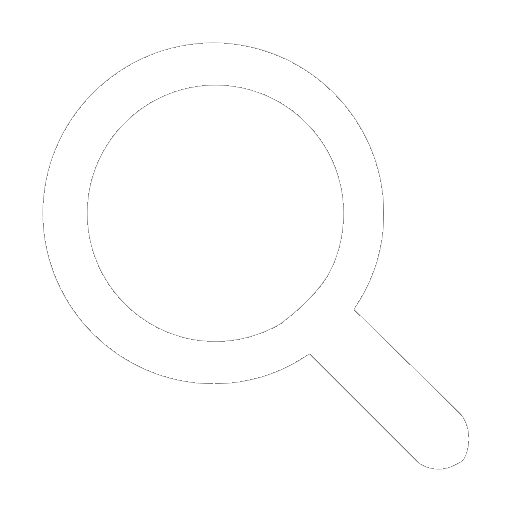
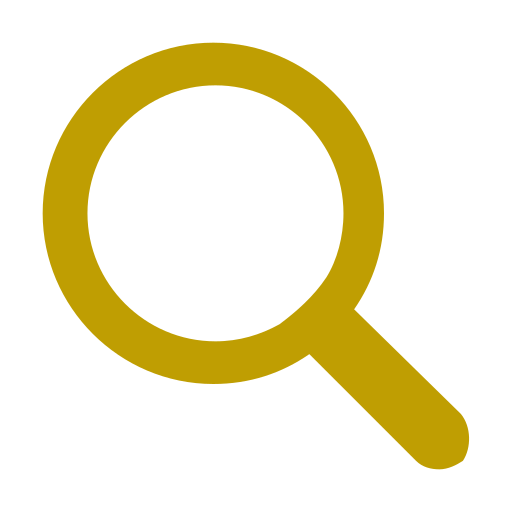
refactor: melhorias no projeto

Changed region(s): [[0.0625, 0.0625, 0.9375, 0.9375]]

diff --git a/src/pages/Details/index.tsx b/src/pages/Details/index.tsx
@@ -8,7 +8,7 @@ import { ContainerLoad, Loader } from "../../components/Loader.ts";
 
 function Details() {
   const { id } = useParams();
-  const [movie, setMovie] = useState<Movie | any>({});
+  const [movie, setMovie] = useState({} as Movie);
   const [load, setLoad] = useState(false);
 
   useEffect(() => {
@@ -21,18 +21,26 @@ function Details() {
       },
     })
       .then((response) => response.json())
-      .then(({ title, overview, poster_path, release_date, vote_average }) => {
-        const movie = {
-          id,
+      .then(
+        ({
           title,
           overview,
-          releaseDate: release_date,
-          image: `${image_path}${poster_path}`,
+          poster_path,
+          release_date,
           vote_average,
-        };
-        setMovie(movie);
-        setTimeout(() => setLoad(false), 400);
-      })
+        }: Movie) => {
+          const movie = {
+            id,
+            title,
+            overview,
+            release_date,
+            poster_path: `${image_path}${poster_path}`,
+            vote_average,
+          };
+          setMovie(movie);
+          setTimeout(() => setLoad(false), 400);
+        }
+      )
       .catch((err) => console.error(err));
   }, [id]);
 
@@ -45,14 +53,16 @@ function Details() {
       )}
       {!load && (
         <div className="movie">
-          <img src={movie.image} alt={movie.title} />
+          <img src={movie.poster_path} alt={movie.title} />
           <div className="details">
             <h1>{movie.title}</h1>
             <span>Visão geral: {movie.overview}</span>
             <span>Nota: {movie.vote_average?.toFixed(1)}</span>
             <span className="release-date">
               Data de lançamento:
-              {` ${new Date(movie.releaseDate).toLocaleString().split(",")[0]}`}
+              {` ${
+                new Date(movie.release_date).toLocaleString().split(",")[0]
+              }`}
             </span>
             <Link to="/">
               <button>Voltar</button>

diff --git a/src/components/Header.tsx b/src/components/Header.tsx
@@ -11,11 +11,7 @@ export const Header = () => {
     <div>
       <ContainerHeader>
         <Logo>
-          <img
-            src="../../public/netflix_logo.png"
-            alt="logo"
-            className="logo"
-          />
+          <img src="../../public/logo.png" alt="logo" className="logo" />
         </Logo>
         <MenuList>
           <Menu>Filmes</Menu>
@@ -23,7 +19,12 @@ export const Header = () => {
           <Menu>Gênero</Menu>
         </MenuList>
         <Search>
-          <img src="../../public/lupa.png" alt="search" className="search" />
+          <img
+            src="../../public/lupa.png"
+            alt="search"
+            className="search"
+            title="Pesquisar"
+          />
         </Search>
       </ContainerHeader>
     </div>

diff --git a/src/components/ContainerHeader.ts b/src/components/ContainerHeader.ts
@@ -3,7 +3,7 @@ import styled from "styled-components";
 export const ContainerHeader = styled.header`
   box-shadow: 8px 3px 20px 5px rgb(0, 0, 0, 0.55);
   width: 100%;
-  height: 70px;
+  height: 90px;
   display: flex;
   padding: 0 5rem;
   align-items: center;
@@ -24,8 +24,9 @@ export const MenuList = styled.ul`
   height: 45%;
   display: flex;
   align-items: center;
-  font-weight: 600;
-  font-size: 0.9rem;
+  font-weight: 300;
+  font-size: 1rem;
+  color: #aaa;
   flex: 1;
 `;
 
@@ -34,6 +35,11 @@ export const Menu = styled.li`
   display: flex;
   margin: 0 1rem;
   cursor: pointer;
+  transition: color 0.3s;
+
+  &:hover {
+    color: #fff;
+  }
 `;
 
 export const Search = styled.div`

diff --git a/src/pages/Home/index.tsx b/src/pages/Home/index.tsx
@@ -6,6 +6,7 @@ import { Container } from "../../components/Container";
 import { MovieList } from "../../components/MovieList";
 import { Movie } from "../../components/Movie";
 import { Header } from "../../components/Header.tsx";
+import { Footer, Linkedin } from "../../components/Footer.ts";
 function Home() {
   const [movies, setMovies] = useState([]);
 
@@ -46,6 +47,14 @@ function Home() {
             );
           })}
       </MovieList>
+      <Footer>
+        <Linkedin
+          href="https://www.linkedin.com/in/mateusalvesds/"
+          target="_blank"
+        >
+          © Developed by Mateus Alves
+        </Linkedin>
+      </Footer>
     </Container>
   );
 }

diff --git a/src/components/Footer.ts b/src/components/Footer.ts
@@ -1,0 +1,35 @@
+import styled from "styled-components";
+
+export const Footer = styled.footer`
+  box-shadow: 8px 3px 20px 5px rgb(0, 0, 0, 0.55);
+  width: 100%;
+  height: 90px;
+  display: flex;
+  padding: 0 5rem;
+  align-items: center;
+  justify-content: center;
+`;
+
+export const Linkedin = styled.a`
+  position: relative;
+  text-decoration: none;
+  color: #aaa;
+  font-size: 0.7rem;
+  padding-bottom: 2px;
+
+  &::after {
+    content: "";
+    position: absolute;
+    bottom: 0;
+    left: 50%;
+    width: 0%;
+    height: 0.1px;
+    background: #aaa;
+    transition: 0.5s ease-out;
+  }
+
+  &:hover::after {
+    left: 0%;
+    width: 100%;
+  }
+`;

diff --git a/src/components/MovieDetails.ts b/src/components/MovieDetails.ts
@@ -33,7 +33,7 @@ export const MovieDetails = styled.div`
   }
 
   button {
-    background-color: #6654da;
+    background-color: #bf9e02;
     border: none;
     cursor: pointer;
     border-radius: 1rem;
@@ -45,7 +45,7 @@ export const MovieDetails = styled.div`
   }
 
   button:hover {
-    background-color: #5829a2;
+    filter: brightness(1.2);
   }
 
   span {

diff --git a/index.html b/index.html
@@ -8,7 +8,7 @@
   <link rel="preconnect" href="https://fonts.googleapis.com">
   <link rel="preconnect" href="https://fonts.gstatic.com" crossorigin>
   <link href="https://fonts.googleapis.com/css2?family=Poppins:wght@300;400;500;600;700&display=swap" rel="stylesheet">
-  <title>API Filmes</title>
+  <title>CineMat - API Filmes</title>
 </head>
 
 <body>

diff --git a/src/global.css b/src/global.css
@@ -9,3 +9,15 @@ body {
   background-color: #111;
   color: #fff;
 }
+
+::-webkit-scrollbar-track {
+  background: #5c5c5c;
+}
+::-webkit-scrollbar {
+  width: 12px;
+  background: #f4f4f4;
+}
+::-webkit-scrollbar-thumb {
+  background: #bf9e02;
+  border-radius: 15px;
+}

diff --git a/src/components/Loader.ts b/src/components/Loader.ts
@@ -15,7 +15,7 @@ export const ContainerLoad = styled.div`
 export const Loader = styled.div`
   width: 48px;
   height: 48px;
-  border: 5px solid #fff;
+  border: 5px solid #bf9e02;
   border-bottom-color: transparent;
   border-radius: 50%;
   display: inline-block;

diff --git a/src/types/Movie.ts b/src/types/Movie.ts
@@ -1,8 +1,8 @@
 export type Movie = {
-  id: string;
+  id: string | undefined;
   title: string;
   overview: string;
-  releaseDate: string;
-  image: string;
+  release_date: string;
+  poster_path: string;
   vote_average: number;
 };

diff --git a/src/components/Container.ts b/src/components/Container.ts
@@ -5,6 +5,8 @@ export const Container = styled.div`
     font-size: 1.2rem;
     text-align: center;
     margin: 2rem 0;
+    color: #bf9e02;
+    font-weight: 600;
   }
 
   .erro {

diff --git a/README.md b/README.md
@@ -1,27 +1,60 @@
-# React + TypeScript + Vite
+# CineMat - API Filmes
 
-This template provides a minimal setup to get React working in Vite with HMR and some ESLint rules.
+### Projeto desenvolvido para estudos de React + TypeScript
 
-Currently, two official plugins are available:
+[• Como rodar o projeto](#start)<br>
+[• Skills utilizadas](#leng)<br>
+[• Contato](#contato)<br>
+<br>
 
-- [@vitejs/plugin-react](https://github.com/vitejs/vite-plugin-react/blob/main/packages/plugin-react/README.md) uses [Babel](https://babeljs.io/) for Fast Refresh
-- [@vitejs/plugin-react-swc](https://github.com/vitejs/vite-plugin-react-swc) uses [SWC](https://swc.rs/) for Fast Refresh
+# Visão geral
 
-## Expanding the ESLint configuration
+Navegue pelos filmes, como você é acostumado a fazer em suas plataformas preferidas de **streaming**, os filmes são consumidos através de uma API e estão sendo exibidos os filmes na categoria **populares** no momento.
+<br>
 
-If you are developing a production application, we recommend updating the configuration to enable type aware lint rules:
+<!-- ### [Testar / preview](https://matealves.github.io/react-imc-calculator/dist/) <br><br> -->
 
-- Configure the top-level `parserOptions` property like this:
+<p id="start"></p>
 
-```js
-   parserOptions: {
-    ecmaVersion: 'latest',
-    sourceType: 'module',
-    project: ['./tsconfig.json', './tsconfig.node.json'],
-    tsconfigRootDir: __dirname,
-   },
-```
+### - Instalação:
 
-- Replace `plugin:@typescript-eslint/recommended` to `plugin:@typescript-eslint/recommended-type-checked` or `plugin:@typescript-eslint/strict-type-checked`
-- Optionally add `plugin:@typescript-eslint/stylistic-type-checked`
-- Install [eslint-plugin-react](https://github.com/jsx-eslint/eslint-plugin-react) and add `plugin:react/recommended` & `plugin:react/jsx-runtime` to the `extends` list
+### `npm install`
+
+### - Rodar no server local:
+
+### `npm run dev`
+
+<br>
+
+<p id="leng"></p>
+
+# Skills utilizadas
+
+<p>
+  <!-- <img align="center" alt="Sass" height="30" width="40" src="https://cdn.jsdelivr.net/gh/devicons/devicon/icons/sass/sass-original.svg"> -->
+  <!-- <img align="center" alt="Js" height="30" width="40" src="https://cdn.jsdelivr.net/gh/devicons/devicon/icons/javascript/javascript-original.svg"> -->
+
+  <img align="center" alt="ReactJS" height="30" width="40" title="React.Js" src="https://cdn.jsdelivr.net/gh/devicons/devicon/icons/react/react-original.svg">
+  <img align="center" alt="TypeScript" height="30" width="40" title="TypeScript" src="https://cdn.jsdelivr.net/gh/devicons/devicon/icons/typescript/typescript-original.svg">
+    <!-- <img align="center" alt="HTML 5" height="30" width="40" title="HTML 5"  src="https://raw.githubusercontent.com/devicons/devicon/master/icons/html5/html5-original.svg"> -->
+   <!-- <img align="center" alt="CSS 3" height="30" title="CSS 3" width="40" src="https://cdn.jsdelivr.net/gh/devicons/devicon/icons/css3/css3-original.svg"> -->
+</p>
+<br>
+
+<p id="contato"></p>
+
+# Como entro em contato?
+
+Entre em contato através dos links a seguir!
+<br>
+<br>
+<a href="https://www.linkedin.com/in/mateusalvesds/" target="_blank"><img src="https://img.shields.io/badge/-LinkedIn-%230077B5?style=for-the-badge&logo=linkedin&logoColor=white" target="_blank"></a>
+
+<a href = "mailto:contatomateusalves@hotmail.com"><img src="https://img.shields.io/badge/Microsoft_Outlook-0078D4?style=for-the-badge&logo=microsoft-outlook&logoColor=white" target="_blank"></a>
+
+<a href="https://api.whatsapp.com/send?phone=+5511966616365" target="_blank"><img src="https://img.shields.io/badge/WhatsApp-25D366?style=for-the-badge&logo=whatsapp&logoColor=white" target="_blank"></a>
+
+</p>
+<br>
+<br>
+<br>
